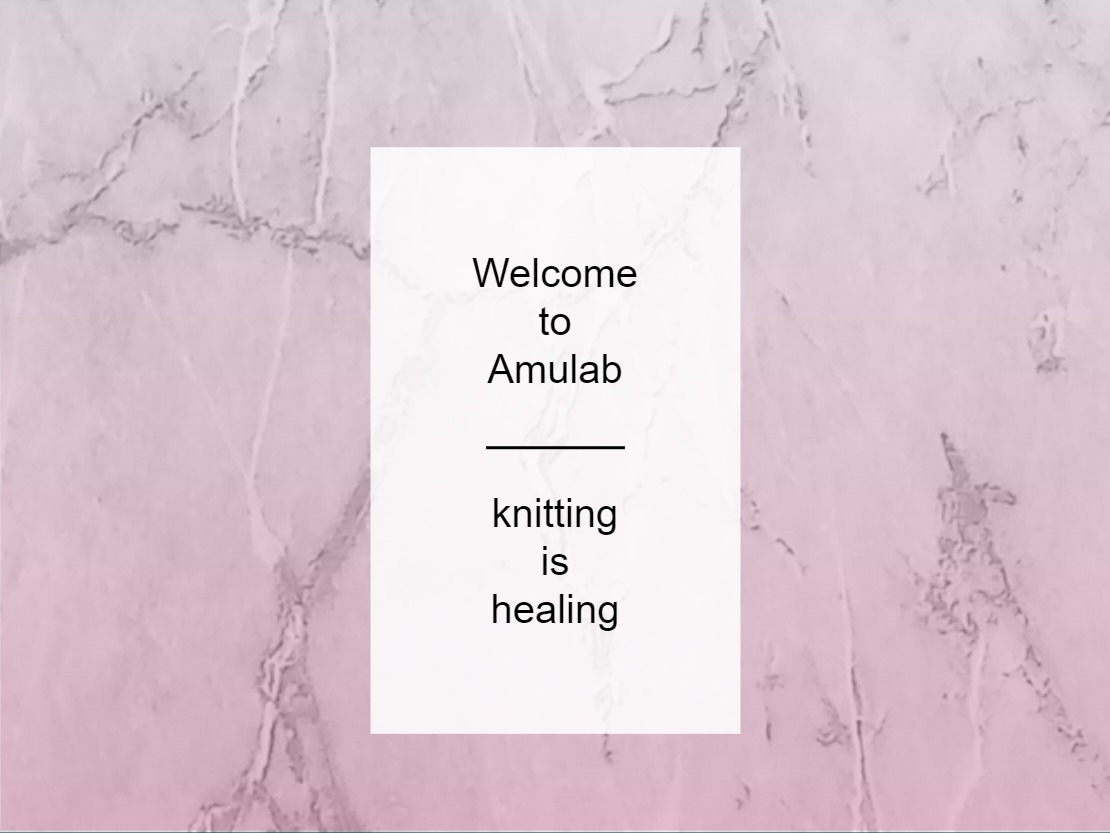
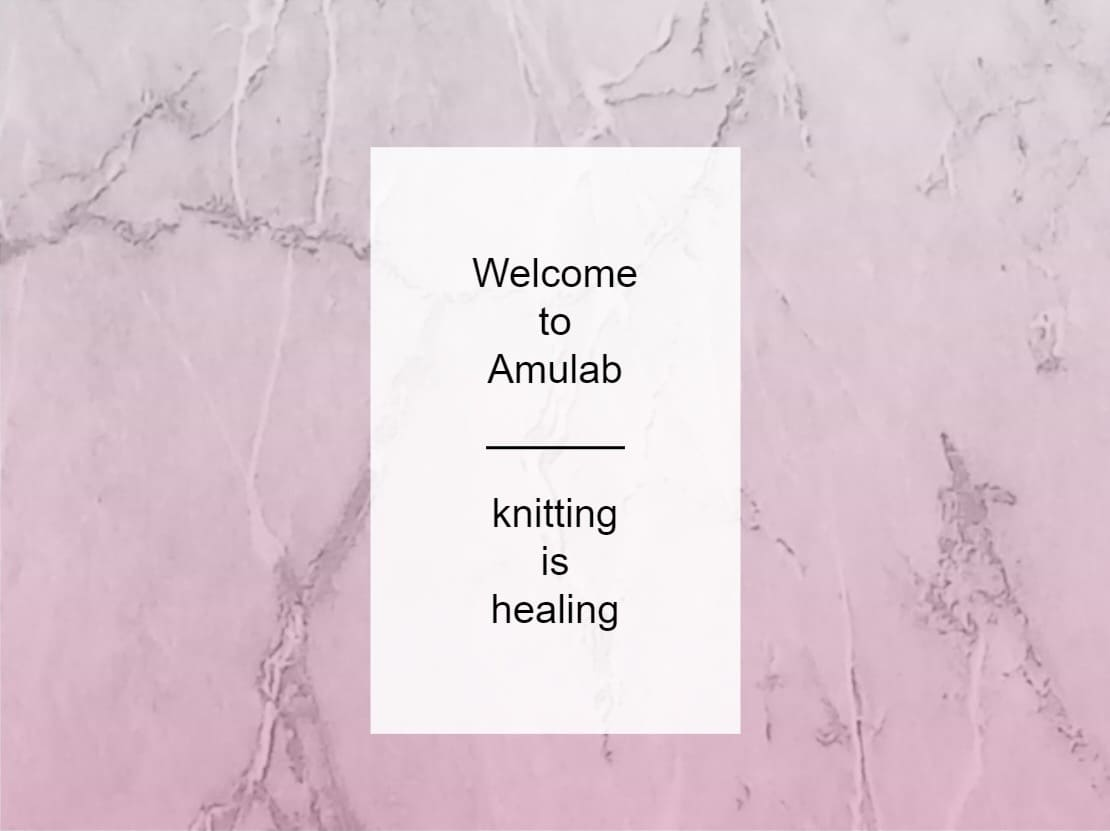
[update]seed access

diff --git a/app/assets/stylesheets/application.css b/app/assets/stylesheets/application.css
@@ -18,7 +18,7 @@
     position: fixed;
     width: 100%;
      /*ヘッダーの幅を100%に設定 */
-    background-color: #052D37;
+    background-color: #B8C8CC;
     padding: 8px 150px;
     height: 130px;
     position: fixed;
@@ -90,10 +90,10 @@
   }
   body {
     font-family: "Rounded Mplus 1c";
-    color: #fff;
+    color: #052D37;
     font-weight: bold;
-    background-color: #052D37;
-    /*052D37 紺 E6CFDB ピンク B8C8CC ブルーグレー f0f8ff アリスブルー eee9e6 淡いベージュ E5C58F ベージュ*/
+    background-color: #F5FCFD;
+    /*052D37 紺 E6CFDB ピンク B8C8CC ブルーグレー f0f8ff アリスブルー eee9e6 淡いベージュ E5C58F ベージュ F5FCFD ver.2*/
   }
 
   .items_image{

diff --git a/app/controllers/public/items_controller.rb b/app/controllers/public/items_controller.rb
@@ -1,11 +1,12 @@
 class Public::ItemsController < ApplicationController
+  before_action :is_matching_login_user, only: [:edit, :update, :create]
   def index
     @items = Item.order(created_at: :desc).page(params[:page])    # ページネーションdesc => 大きい順asc  => 小さい順
   end
 
   def show
     @item = Item.find(params[:id])
-    
+
 
     # @item_favorite を初期化
     # @item_favorite = Favorite.find_or_initialize_by(item: @item, user: current_user)
@@ -31,6 +32,7 @@ class Public::ItemsController < ApplicationController
     else
       render :edit
     end
+
   end
 
   def create
@@ -53,6 +55,19 @@ class Public::ItemsController < ApplicationController
 
   def item_params
     params.require(:item).permit(:name, :description, :genre_id, images: [])
+  end
+
+  def is_matching_login_user
+    if current_user.nil?
+      redirect_to new_user_session_path, alert: "ログインしてください"
+    else
+      user = User.find_by(id: params[:id])
+      if user.nil?
+        redirect_to items_path, alert: "ユーザーが見つかりませんでした"
+      elsif user.id != current_user.id
+        redirect_to items_path, alert: "他のユーザーの編集は許可されていません"
+      end
+    end
   end
 
 end

diff --git a/db/seeds.rb b/db/seeds.rb
@@ -224,7 +224,7 @@ p item.images.attach(io: File.open(Rails.root.join('app/assets/images/test10_2.p
       id: id,
       user: User.find_by(name: "ユーザー2"),
       genre: Genre.find_by(id: 10 + n + 1),
-      name: Faker::Games::Pokemon.name + "作品",
+      name: Faker::Games::Pokemon.name + "って作品",
       description: Faker::Games::Pokemon.location + "みたいな作品です。ああああああああああああああああああああああああああああああ。",
     )
 end
@@ -242,7 +242,7 @@ end
       id: id,
       user: User.find_by(name: "ユーザー3"),
       genre: Genre.find_by(id: 15 + n + 1),
-      name: Faker::Games::Pokemon.name + "作品",
+      name: Faker::Games::Pokemon.name + "って作品",
       description: Faker::Games::Pokemon.location + "みたいな作品です。いいいいいいいいいいいいいいいいいいいいいいいいいいいいいい。",
     )
 end

diff --git a/app/controllers/admin/items_controller.rb b/app/controllers/admin/items_controller.rb
@@ -1,14 +1,23 @@
 class Admin::ItemsController < ApplicationController
+  before_action :authenticate_admin # ログインしていてかつ管理者である
   def index
-    @items = Item.all.page(params[:page])
+    @items = Item.order(created_at: :desc).page(params[:page])
   end
 
   def show
     @item = Item.find(params[:id])
   end
 
+  private
+
   def item_params
-    params.require(:item).permit(:name, :description, images: [])
+    params.require(:item).permit(:name, :description, :genre_id, images: [])
+  end
+
+  def authenticate_admin
+    unless admin_signed_in? # 管理者としてログインしているか確認
+      redirect_to public_root_path, alert: "管理者としてログインしていません"
+    end
   end
 
 end

diff --git a/app/controllers/admin/genres_controller.rb b/app/controllers/admin/genres_controller.rb
@@ -1,4 +1,5 @@
 class Admin::GenresController < ApplicationController
+  before_action :authenticate_admin # ログインしていてかつ管理者である
   def index
     Kaminari.config.default_per_page = 20# 特定のアクションでKaminariの設定を変更
     @genres = Genre.all.page(params[:page])
@@ -34,6 +35,12 @@ class Admin::GenresController < ApplicationController
 
   def genre_params
     params.require(:genre).permit(:name)
+  end
+
+  def authenticate_admin
+    unless admin_signed_in? # 管理者としてログインしているか確認
+      redirect_to public_root_path, alert: "管理者としてログインしていません"
+    end
   end
 
 end

diff --git a/app/controllers/admin/users_controller.rb b/app/controllers/admin/users_controller.rb
@@ -1,4 +1,5 @@
 class Admin::UsersController < ApplicationController
+  before_action :authenticate_admin # ログインしていてかつ管理者である
   def show
     @user = User.find(params[:id])
   end
@@ -21,6 +22,12 @@ class Admin::UsersController < ApplicationController
 
   def user_params
     params.require(:user).permit(:email, :name, :phone_number, :password, :password_confirmation)
+  end
+
+  def authenticate_admin
+    unless admin_signed_in? # 管理者としてログインしているか確認
+      redirect_to public_root_path, alert: "管理者としてログインしていません"
+    end
   end
 
 end

diff --git a/app/controllers/admin/homes_controller.rb b/app/controllers/admin/homes_controller.rb
@@ -1,5 +1,15 @@
 class Admin::HomesController < ApplicationController
+  before_action :authenticate_admin # ログインしていてかつ管理者である
   def top
     @users = User.all
   end
+
+  private
+
+  def authenticate_admin
+    unless admin_signed_in? # 管理者としてログインしているか確認
+      redirect_to public_root_path, alert: "管理者としてログインしていません"
+    end
+  end
+
 end

diff --git a/app/controllers/admin/sessions_controller.rb b/app/controllers/admin/sessions_controller.rb
@@ -3,8 +3,6 @@
 class Admin::SessionsController < Devise::SessionsController
   # before_action :configure_sign_in_params, only: [:create]
 
-  # before_action :configure_sign_in_params, only: [:create]
-
 # Deviseのデフォルトの挙動も必要なため、super を呼び出すことで親クラスの new メソッドを実行。
   def new
     super
